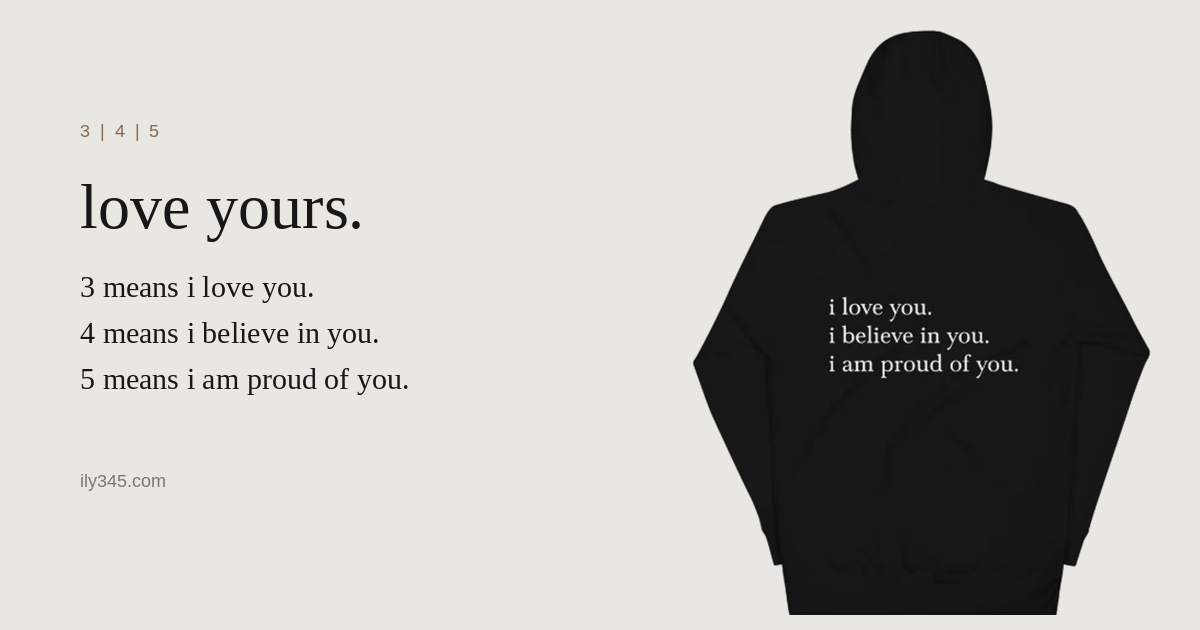
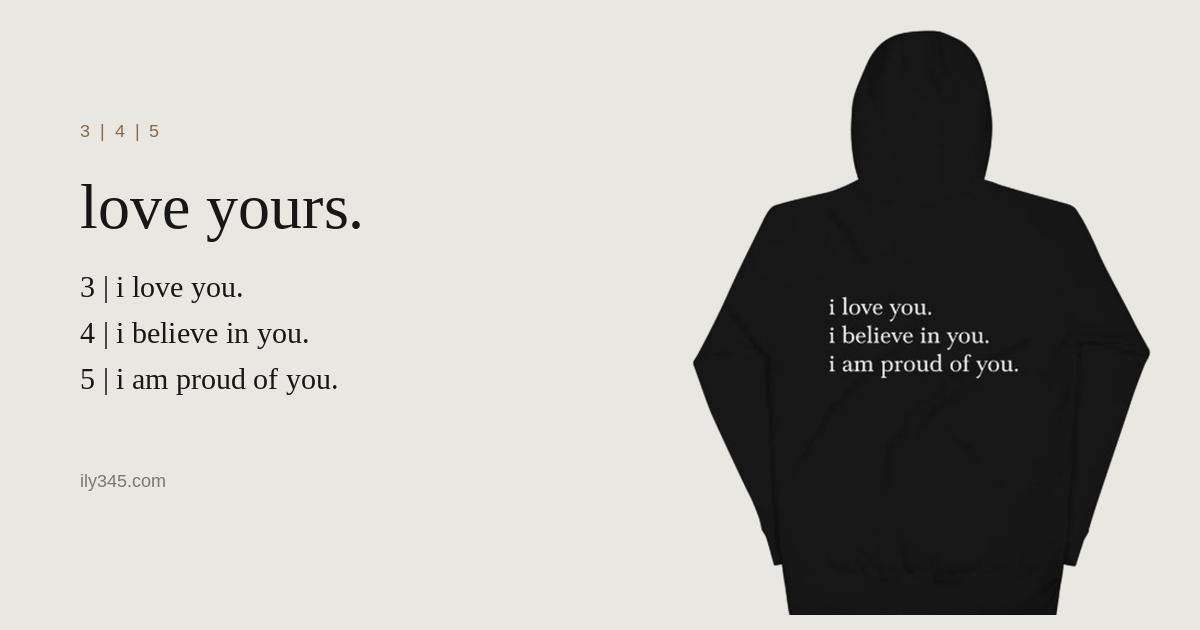
pipes, story heading fix, mobile tile width

Changed region(s): [[0.0925, 0.573, 0.3392, 0.6333], [0.0925, 0.4222, 0.2775, 0.4825], [0.0925, 0.5127, 0.3083, 0.5429]]

diff --git a/index.html b/index.html
@@ -4,7 +4,7 @@
   <meta charset="UTF-8">
   <meta name="viewport" content="width=device-width, initial-scale=1.0">
   <title>3 | 4 | 5 · love yours.</title>
-  <meta name="description" content="3 means i love you. 4 means i believe in you. 5 means i am proud of you. made-to-order hoodies, tees, hats and a blanket that say it for you.">
+  <meta name="description" content="3 | i love you. 4 | i believe in you. 5 | i am proud of you. made-to-order hoodies, tees, hats and a blanket that say it for you.">
   <link rel="canonical" href="https://ily345.com/">
   <meta property="og:type" content="website">
   <meta property="og:title" content="3 | 4 | 5 · love yours.">
@@ -13,7 +13,7 @@
   <meta property="og:image" content="https://ily345.com/assets/og.png">
   <meta name="twitter:card" content="summary_large_image">
   <link rel="icon" href="assets/favicon.svg" type="image/svg+xml">
-  <link rel="stylesheet" href="assets/site.css?v=fccb1e59">
+  <link rel="stylesheet" href="assets/site.css?v=6f8fb639">
 </head>
 <body data-page="home">
   <header id="site-header"></header>
@@ -26,9 +26,9 @@
           <div class="label accent">3 | 4 | 5</div>
           <h1 class="display">love yours.</h1>
           <div class="hero-lines lines">
-            <div>3 means i love you.</div>
-            <div>4 means i believe in you.</div>
-            <div>5 means i am proud of you.</div>
+            <div>3 | i love you.</div>
+            <div>4 | i believe in you.</div>
+            <div>5 | i am proud of you.</div>
           </div>
           <p class="hero-sub">three numbers that say the things we mean and rarely say. made to order, one piece at a time.</p>
           <div class="hero-actions">
@@ -118,6 +118,6 @@
   </main>
 
   <footer id="site-footer"></footer>
-  <script src="assets/site.js?v=fccb1e59"></script>
+  <script src="assets/site.js?v=6f8fb639"></script>
 </body>
 </html>

diff --git a/assets/site.css b/assets/site.css
@@ -302,10 +302,6 @@ h1, h2, h3, p { margin: 0; }
 .meaning { text-align: center; padding: 96px 0; }
 .meaning .lines { display: grid; gap: 6px; margin: 0 0 22px; }
 .meaning p.sub { max-width: 560px; margin: 0 auto; color: var(--muted); }
-.story-grid { display: grid; grid-template-columns: 0.8fr 1.2fr; gap: 56px; }
-.story-grid .display-sm { position: sticky; top: 90px; }
-.story-body { font-family: var(--serif); font-size: 18px; line-height: 1.8; max-width: 620px; }
-.story-body .signoff { color: var(--muted); font-size: 16px; }
 .quote { text-align: center; padding: 96px 0; }
 .quote .display-sm { max-width: 820px; margin: 0 auto 16px; }
 .quote p.sub { max-width: 560px; margin: 0 auto; color: var(--muted); }
@@ -328,7 +324,7 @@ h1, h2, h3, p { margin: 0; }
 @media (max-width: 1000px) {
   .grid, .grid.four { grid-template-columns: repeat(2, 1fr); gap: 24px 16px; }
   .hero-grid, .pdp, .bag-layout, .story-grid { grid-template-columns: 1fr; }
-  .pdp-gallery, .story-grid .display-sm, .bag-summary { position: static; }
+  .pdp-gallery, .bag-summary { position: static; }
   .faq { grid-template-columns: 1fr; gap: 22px; }
   .purpose-grid { grid-template-columns: 1fr; gap: 28px; }
   .purpose { padding: 72px 0; }
@@ -351,7 +347,8 @@ h1, h2, h3, p { margin: 0; }
     margin: 0 calc(-1 * var(--gutter)); padding: 0 var(--gutter) 8px; scrollbar-width: none;
   }
   .grid::-webkit-scrollbar { display: none; }
-  .grid > .tile { flex: 0 0 calc(100% - 44px); scroll-snap-align: start; }
+  .grid { scroll-padding: 0 var(--gutter); }
+  .grid > .tile { flex: 0 0 calc(100% - 2 * var(--gutter) - 18px); scroll-snap-align: start; }
   .tile-meta { padding-top: 12px; }
   .section-head .cat-count::after { content: " · swipe"; }
   .hero-visual { aspect-ratio: 1 / 1; }

diff --git a/assets/site.js b/assets/site.js
@@ -95,7 +95,7 @@
   /* ---------- products ---------- */
   function loadProducts(cb) {
     if (window.PRODUCTS) return cb(window.PRODUCTS);
-    fetch('data/products.json?v=fccb1e59').then(function (r) { return r.json(); }).then(function (d) { window.PRODUCTS = d; cb(d); })
+    fetch('data/products.json?v=6f8fb639').then(function (r) { return r.json(); }).then(function (d) { window.PRODUCTS = d; cb(d); })
       .catch(function () { var el = $('[data-products-error]'); if (el) el.hidden = false; });
   }
   function findProduct(list, id) { return list.filter(function (p) { return p.id === id; })[0]; }
@@ -350,7 +350,7 @@
       line(big, W / 2, state.n === '345' ? 640 : 700, (state.n === '345' ? '300 300px' : '300 520px') + ' Georgia, "Times New Roman", serif', t.ink, 'center');
       var y = wrap(MEAN[state.n], m, 880, W - 2 * m, 72, '400 56px Georgia, "Times New Roman", serif', t.ink);
       if (state.from) line('from ' + state.from.toLowerCase(), m, y + 40, '500 26px -apple-system, Helvetica, Arial, sans-serif', t.muted);
-      line('3 means i love you.  4 means i believe in you.  5 means i am proud of you.', m, H - 150, '400 22px -apple-system, Helvetica, Arial, sans-serif', t.muted);
+      line('3 | i love you.  4 | i believe in you.  5 | i am proud of you.', m, H - 150, '400 22px -apple-system, Helvetica, Arial, sans-serif', t.muted);
       line('ily345.com  ·  love yours.', m, H - 108, '500 22px -apple-system, Helvetica, Arial, sans-serif', t.accent);
       $('#send-meaning').textContent = MEAN[state.n].replace(/\.$/, '');
       $('#send-tone-name').textContent = state.tone;

diff --git a/story.html b/story.html
@@ -12,7 +12,7 @@
   <meta property="og:url" content="https://ily345.com/story.html">
   <meta property="og:image" content="https://ily345.com/assets/og.png">
   <link rel="icon" href="assets/favicon.svg" type="image/svg+xml">
-  <link rel="stylesheet" href="assets/site.css?v=fccb1e59">
+  <link rel="stylesheet" href="assets/site.css?v=6f8fb639">
 </head>
 <body data-page="story">
   <header id="site-header"></header>
@@ -25,7 +25,7 @@
           <div class="label accent">the story</div>
           <h1 class="display">this didn't start as a brand.</h1>
           <p class="story-hero-sub">it started from something real. three numbers, sent between two people, that turned into a habit, and then into the pieces on this site.</p>
-          <div class="lines story-hero-lines"><div>3 means i love you.</div><div>4 means i believe in you.</div><div>5 means i am proud of you.</div></div>
+          <div class="lines story-hero-lines"><div>3 | i love you.</div><div>4 | i believe in you.</div><div>5 | i am proud of you.</div></div>
         </div>
         <div class="story-hero-visual"><img id="story-img" src="" alt="the 345 hoodie, back: i love you. i believe in you. i am proud of you."></div>
       </div>
@@ -97,6 +97,6 @@
   </main>
 
   <footer id="site-footer"></footer>
-  <script src="assets/site.js?v=fccb1e59"></script>
+  <script src="assets/site.js?v=6f8fb639"></script>
 </body>
 </html>

diff --git a/send.html b/send.html
@@ -8,12 +8,12 @@
   <link rel="canonical" href="https://ily345.com/send.html">
   <meta property="og:type" content="website">
   <meta property="og:title" content="send a 345">
-  <meta property="og:description" content="3 means i love you. 4 means i believe in you. 5 means i am proud of you.">
+  <meta property="og:description" content="3 | i love you. 4 | i believe in you. 5 | i am proud of you.">
   <meta property="og:url" content="https://ily345.com/send.html">
   <meta property="og:image" content="https://ily345.com/assets/og.png">
   <meta name="twitter:card" content="summary_large_image">
   <link rel="icon" href="assets/favicon.svg" type="image/svg+xml">
-  <link rel="stylesheet" href="assets/site.css?v=fccb1e59">
+  <link rel="stylesheet" href="assets/site.css?v=6f8fb639">
 </head>
 <body data-page="send">
   <header id="site-header"></header>
@@ -73,6 +73,6 @@
   </main>
 
   <footer id="site-footer"></footer>
-  <script src="assets/site.js?v=fccb1e59"></script>
+  <script src="assets/site.js?v=6f8fb639"></script>
 </body>
 </html>

diff --git a/product.html b/product.html
@@ -10,7 +10,7 @@
   <meta property="og:description" content="a 345 piece. i love you. i believe in you. i am proud of you.">
   <meta property="og:image" content="https://ily345.com/assets/og.png">
   <link rel="icon" href="assets/favicon.svg" type="image/svg+xml">
-  <link rel="stylesheet" href="assets/site.css?v=fccb1e59">
+  <link rel="stylesheet" href="assets/site.css?v=6f8fb639">
 </head>
 <body data-page="product">
   <header id="site-header"></header>
@@ -35,6 +35,6 @@
   </main>
 
   <footer id="site-footer"></footer>
-  <script src="assets/site.js?v=fccb1e59"></script>
+  <script src="assets/site.js?v=6f8fb639"></script>
 </body>
 </html>

diff --git a/shop.html b/shop.html
@@ -12,7 +12,7 @@
   <meta property="og:url" content="https://ily345.com/shop.html">
   <meta property="og:image" content="https://ily345.com/assets/og.png">
   <link rel="icon" href="assets/favicon.svg" type="image/svg+xml">
-  <link rel="stylesheet" href="assets/site.css?v=fccb1e59">
+  <link rel="stylesheet" href="assets/site.css?v=6f8fb639">
 </head>
 <body data-page="shop">
   <header id="site-header"></header>
@@ -32,6 +32,6 @@
   </main>
 
   <footer id="site-footer"></footer>
-  <script src="assets/site.js?v=fccb1e59"></script>
+  <script src="assets/site.js?v=6f8fb639"></script>
 </body>
 </html>

diff --git a/thanks.html b/thanks.html
@@ -6,7 +6,7 @@
   <title>thank you · 3 | 4 | 5</title>
   <meta name="robots" content="noindex">
   <link rel="icon" href="assets/favicon.svg" type="image/svg+xml">
-  <link rel="stylesheet" href="assets/site.css?v=fccb1e59">
+  <link rel="stylesheet" href="assets/site.css?v=6f8fb639">
 </head>
 <body data-page="thanks">
   <header id="site-header"></header>
@@ -20,6 +20,6 @@
     </div>
   </main>
   <footer id="site-footer"></footer>
-  <script src="assets/site.js?v=fccb1e59"></script>
+  <script src="assets/site.js?v=6f8fb639"></script>
 </body>
 </html>

diff --git a/bag.html b/bag.html
@@ -7,7 +7,7 @@
   <meta name="description" content="your 345 bag.">
   <meta name="robots" content="noindex">
   <link rel="icon" href="assets/favicon.svg" type="image/svg+xml">
-  <link rel="stylesheet" href="assets/site.css?v=fccb1e59">
+  <link rel="stylesheet" href="assets/site.css?v=6f8fb639">
 </head>
 <body data-page="bag">
   <header id="site-header"></header>
@@ -29,6 +29,6 @@
   </main>
 
   <footer id="site-footer"></footer>
-  <script src="assets/site.js?v=fccb1e59"></script>
+  <script src="assets/site.js?v=6f8fb639"></script>
 </body>
 </html>

diff --git a/404.html b/404.html
@@ -7,7 +7,7 @@
   <meta name="robots" content="noindex">
   <base href="/">
   <link rel="icon" href="assets/favicon.svg" type="image/svg+xml">
-  <link rel="stylesheet" href="assets/site.css?v=fccb1e59">
+  <link rel="stylesheet" href="assets/site.css?v=6f8fb639">
 </head>
 <body data-page="404">
   <header id="site-header"></header>
@@ -20,6 +20,6 @@
     </div>
   </main>
   <footer id="site-footer"></footer>
-  <script src="assets/site.js?v=fccb1e59"></script>
+  <script src="assets/site.js?v=6f8fb639"></script>
 </body>
 </html>
